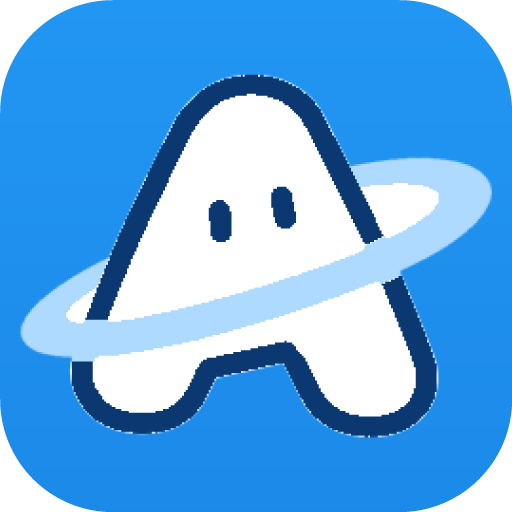
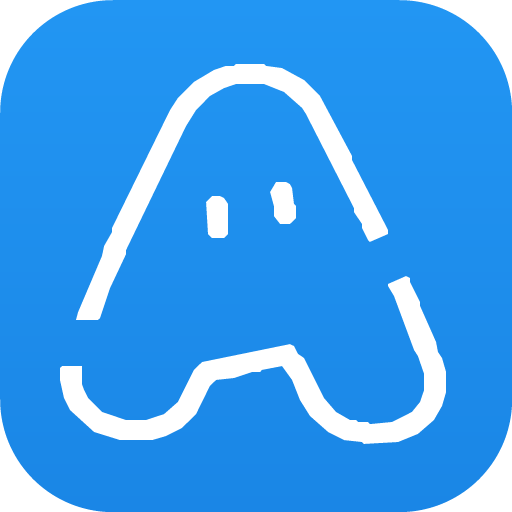
fix(assets): 图标改为线稿，解决小尺寸糊成一团
问题：把整个 logo 轮廓填成单色，18px 下 324 格里 144 格全墨 —— 没有细节，
就是一团黑。原因不在矢量化精度，而在这张 logo 的辨识度来自「深色描边 +
白色主体 + 蓝色斜带」三层颜色，单色填充把层次信息全丢了。

量化结论（18px 降采样）：白 75 格 / 蓝 35 格 / 深 34 格。只取深色描边后
墨量从 144 格降到 70 格（22%），圆头、内部两笔、底部开衩、拱洞都能看出。

- 侧栏 RelayIcon 改为「深色描边」线稿路径（4 段子路径含孔洞，evenodd），
  fill=currentColor，跟随亮/暗主题；24 视框，18px 下经扫描线栅格化验证可读。
  路径仍来自 /logo-icon.png 的追踪（非手绘）：掩码取 R,G,B<130，Moore 邻域
  闭合轮廓 + Douglas-Peucker，与原描边掩码 IoU 89.5%。
- assets/icon-{180,512}.png 改成同一线稿的白描版（品牌蓝底 #2296f3），
  与侧栏图标视觉统一，避免「设置页图标看着不对」。

测试修正：多子路径拼接时断言每段都以 Z/z 闭合（原断言只看整串结尾）。

diff --git a/src/client/app.ts b/src/client/app.ts
@@ -39,15 +39,18 @@ export function makeFactory(): (require: (mod: string) => any) => any {
     }
 
     /**
-     * 侧栏图标 = 中转站官方 logo 的矢量轮廓。
+     * 侧栏图标 = 中转站官方 logo 的**线稿**（不是实心轮廓）。
      *
-     * 路径数据不是手画的，而是把站点 /logo-icon.png 的 alpha 通道
-     * 用 Moore 邻域追踪出闭合轮廓、再经 Douglas-Peucker 简化（60 点）得到，
-     * 与原图 256px 栅格相比 IoU 98.5%。描边式单色路径，跟随 currentColor，
-     * 亮/暗主题都自适应；视框 24×24 与侧栏图标惯例一致。
+     * 为什么是线稿：logo 的辨识度来自「粗深色描边 + 白色主体 + 蓝色斜带」三层，
+     * 把整个外形填成单色，18px 下就只剩一团实心黑（144/324 格全墨），细节全丢。
+     * 只取深色描边后墨量降到 22%，圆头、内部两笔、底部开衩、拱洞都还能看出。
+     *
+     * 路径来源：站点 /logo-icon.png 的深色像素（R,G,B 均 < 130）做 Moore 邻域
+     * 闭合轮廓追踪 + Douglas-Peucker 简化，含内部孔洞（evenodd）。
+     * 与原描边掩码在 256px 下比对 IoU 89.5%；差异主要来自抗锯齿边缘的取舍。
      */
     const RELAY_ICON_PATH =
-      'M11.06 3l1.32 0l0.84 0.19l0.75 0.37l0.75 0.57l0.47 0.65l1.4 2.72l1.5 -0.28l0.75 0l0.1 -0.09l2.15 0l1.32 0.28l0.65 0.37l0.38 0.47l0.09 0.75l-0.37 0.84l-1.03 1.04l-0.66 0.46l-2.44 1.32l1.41 3.37l0.47 1.41l0 0.94l-0.38 1.03l-0.65 0.75l-0.66 0.37l-1.13 0.28l-1.03 0l-0.93 -0.18l-0.75 -0.38l-0.85 -0.75l-0.47 -0.75l-0.37 -0.94l-0.28 -0.47l-0.28 -0.18l-3.1 0.75l-0.84 1.5l-0.66 0.65l-0.75 0.38l-0.65 0.19l-1.6 0l-1.12 -0.38l-1.13 -1.03l-0.47 -1.22l0 -0.84l0.1 -0.1l-0.1 -0.18l-1.12 -0.1l-0.56 -0.19l-0.47 -0.28l-0.28 -0.47l0 -0.46l0.18 -0.38l1.13 -1.22l1.22 -0.84l1.87 -1.03l1.03 -2.44l2.25 -4.5l0.28 -0.38l0.75 -0.75l0.57 -0.37z';
+      'M11.06 3L12.38 3L12.47 3.09L13.22 3.19L14.25 3.75L15 4.5L16.5 7.31L16.5 7.5L18.19 10.78L18.19 10.97L17.34 11.34L17.25 11.25L16.97 10.69L16.97 10.5L16.59 9.94L16.59 9.75L14.34 5.34L14.16 5.06L13.31 4.31L12.38 3.94L11.06 3.94L10.5 4.13L9.84 4.5L9.19 5.16L8.72 5.91L5.91 11.72L5.91 11.91L5.16 13.5L4.69 14.91L4.59 15L3.56 15L3.66 14.63L4.78 12L4.88 11.53L5.25 10.88L5.25 10.69L7.97 5.16L8.34 4.59L9.09 3.84L10.03 3.28L10.59 3.09L10.97 3.09Z M12.94 8.53L13.41 8.53L13.59 8.63L13.69 8.81L13.78 9.56L13.88 9.66L13.88 10.22L13.69 10.41L13.59 10.5L13.13 10.5L12.84 10.13L12.84 9.66L12.66 9Z M9.94 9.19L10.31 9.19L10.5 9.28L10.69 9.56L10.69 10.97L10.5 11.16L9.94 11.16L9.75 10.97L9.66 9.47Z M19.03 12.94L19.22 13.03L19.22 13.22L19.69 14.16L19.69 14.34L20.44 16.03L20.53 16.5L20.72 16.78L20.91 17.44L20.91 18.38L20.72 19.03L20.34 19.69L19.59 20.34L18.66 20.72L17.06 20.81L16.97 20.72L16.13 20.63L15.38 20.25L14.53 19.5L14.06 18.75L13.69 17.81L13.22 17.16L12.28 17.34L12.19 17.44L11.81 17.44L10.97 17.72L10.13 17.81L9.84 18.09L9.19 19.41L8.53 20.06L7.78 20.44L7.13 20.63L5.63 20.63L4.41 20.25L3.28 19.22L3 18.66L2.81 17.81L2.81 17.25L2.91 17.16L3.84 17.16L3.84 18L3.94 18.28L4.13 18.66L4.78 19.31L5.91 19.69L6.84 19.69L7.69 19.41L8.34 18.84L9.09 17.34L9.47 16.97L13.59 16.13L13.78 16.22L13.97 16.59L14.25 16.78L15.19 18.66L15.75 19.31L16.41 19.69L16.69 19.69L16.78 19.78L17.25 19.78L17.34 19.88L18.38 19.78L19.31 19.31L19.69 18.84L19.88 18.28L19.88 17.53L19.59 16.69L19.41 16.41L18.47 13.88L18.19 13.41L18.19 13.31Z';
 
     function RelayIcon(props: any): any {
       const size = props && typeof props.size === 'number' ? props.size : 18;
@@ -59,7 +62,7 @@ export function makeFactory(): (require: (mod: string) => any) => any {
           height: size,
           viewBox: '0 0 24 24',
           fill: 'currentColor',
-          style: { display: 'block', opacity: active ? 1 : 0.85 },
+          style: { display: 'block', opacity: active ? 1 : 0.8 },
           'aria-hidden': 'true',
         },
         h('path', { d: RELAY_ICON_PATH, fillRule: 'evenodd', clipRule: 'evenodd' }),

diff --git a/lib/client.js b/lib/client.js
@@ -619,7 +619,7 @@
           return { success: false, message: "响应解析失败" };
         }
       }
-      const RELAY_ICON_PATH = "M11.06 3l1.32 0l0.84 0.19l0.75 0.37l0.75 0.57l0.47 0.65l1.4 2.72l1.5 -0.28l0.75 0l0.1 -0.09l2.15 0l1.32 0.28l0.65 0.37l0.38 0.47l0.09 0.75l-0.37 0.84l-1.03 1.04l-0.66 0.46l-2.44 1.32l1.41 3.37l0.47 1.41l0 0.94l-0.38 1.03l-0.65 0.75l-0.66 0.37l-1.13 0.28l-1.03 0l-0.93 -0.18l-0.75 -0.38l-0.85 -0.75l-0.47 -0.75l-0.37 -0.94l-0.28 -0.47l-0.28 -0.18l-3.1 0.75l-0.84 1.5l-0.66 0.65l-0.75 0.38l-0.65 0.19l-1.6 0l-1.12 -0.38l-1.13 -1.03l-0.47 -1.22l0 -0.84l0.1 -0.1l-0.1 -0.18l-1.12 -0.1l-0.56 -0.19l-0.47 -0.28l-0.28 -0.47l0 -0.46l0.18 -0.38l1.13 -1.22l1.22 -0.84l1.87 -1.03l1.03 -2.44l2.25 -4.5l0.28 -0.38l0.75 -0.75l0.57 -0.37z";
+      const RELAY_ICON_PATH = "M11.06 3L12.38 3L12.47 3.09L13.22 3.19L14.25 3.75L15 4.5L16.5 7.31L16.5 7.5L18.19 10.78L18.19 10.97L17.34 11.34L17.25 11.25L16.97 10.69L16.97 10.5L16.59 9.94L16.59 9.75L14.34 5.34L14.16 5.06L13.31 4.31L12.38 3.94L11.06 3.94L10.5 4.13L9.84 4.5L9.19 5.16L8.72 5.91L5.91 11.72L5.91 11.91L5.16 13.5L4.69 14.91L4.59 15L3.56 15L3.66 14.63L4.78 12L4.88 11.53L5.25 10.88L5.25 10.69L7.97 5.16L8.34 4.59L9.09 3.84L10.03 3.28L10.59 3.09L10.97 3.09Z M12.94 8.53L13.41 8.53L13.59 8.63L13.69 8.81L13.78 9.56L13.88 9.66L13.88 10.22L13.69 10.41L13.59 10.5L13.13 10.5L12.84 10.13L12.84 9.66L12.66 9Z M9.94 9.19L10.31 9.19L10.5 9.28L10.69 9.56L10.69 10.97L10.5 11.16L9.94 11.16L9.75 10.97L9.66 9.47Z M19.03 12.94L19.22 13.03L19.22 13.22L19.69 14.16L19.69 14.34L20.44 16.03L20.53 16.5L20.72 16.78L20.91 17.44L20.91 18.38L20.72 19.03L20.34 19.69L19.59 20.34L18.66 20.72L17.06 20.81L16.97 20.72L16.13 20.63L15.38 20.25L14.53 19.5L14.06 18.75L13.69 17.81L13.22 17.16L12.28 17.34L12.19 17.44L11.81 17.44L10.97 17.72L10.13 17.81L9.84 18.09L9.19 19.41L8.53 20.06L7.78 20.44L7.13 20.63L5.63 20.63L4.41 20.25L3.28 19.22L3 18.66L2.81 17.81L2.81 17.25L2.91 17.16L3.84 17.16L3.84 18L3.94 18.28L4.13 18.66L4.78 19.31L5.91 19.69L6.84 19.69L7.69 19.41L8.34 18.84L9.09 17.34L9.47 16.97L13.59 16.13L13.78 16.22L13.97 16.59L14.25 16.78L15.19 18.66L15.75 19.31L16.41 19.69L16.69 19.69L16.78 19.78L17.25 19.78L17.34 19.88L18.38 19.78L19.31 19.31L19.69 18.84L19.88 18.28L19.88 17.53L19.59 16.69L19.41 16.41L18.47 13.88L18.19 13.41L18.19 13.31Z";
       function RelayIcon(props) {
         const size = props && typeof props.size === "number" ? props.size : 18;
         const active = Boolean(props && props.active);
@@ -630,7 +630,7 @@
             height: size,
             viewBox: "0 0 24 24",
             fill: "currentColor",
-            style: { display: "block", opacity: active ? 1 : 0.85 },
+            style: { display: "block", opacity: active ? 1 : 0.8 },
             "aria-hidden": "true"
           },
           h("path", { d: RELAY_ICON_PATH, fillRule: "evenodd", clipRule: "evenodd" })
